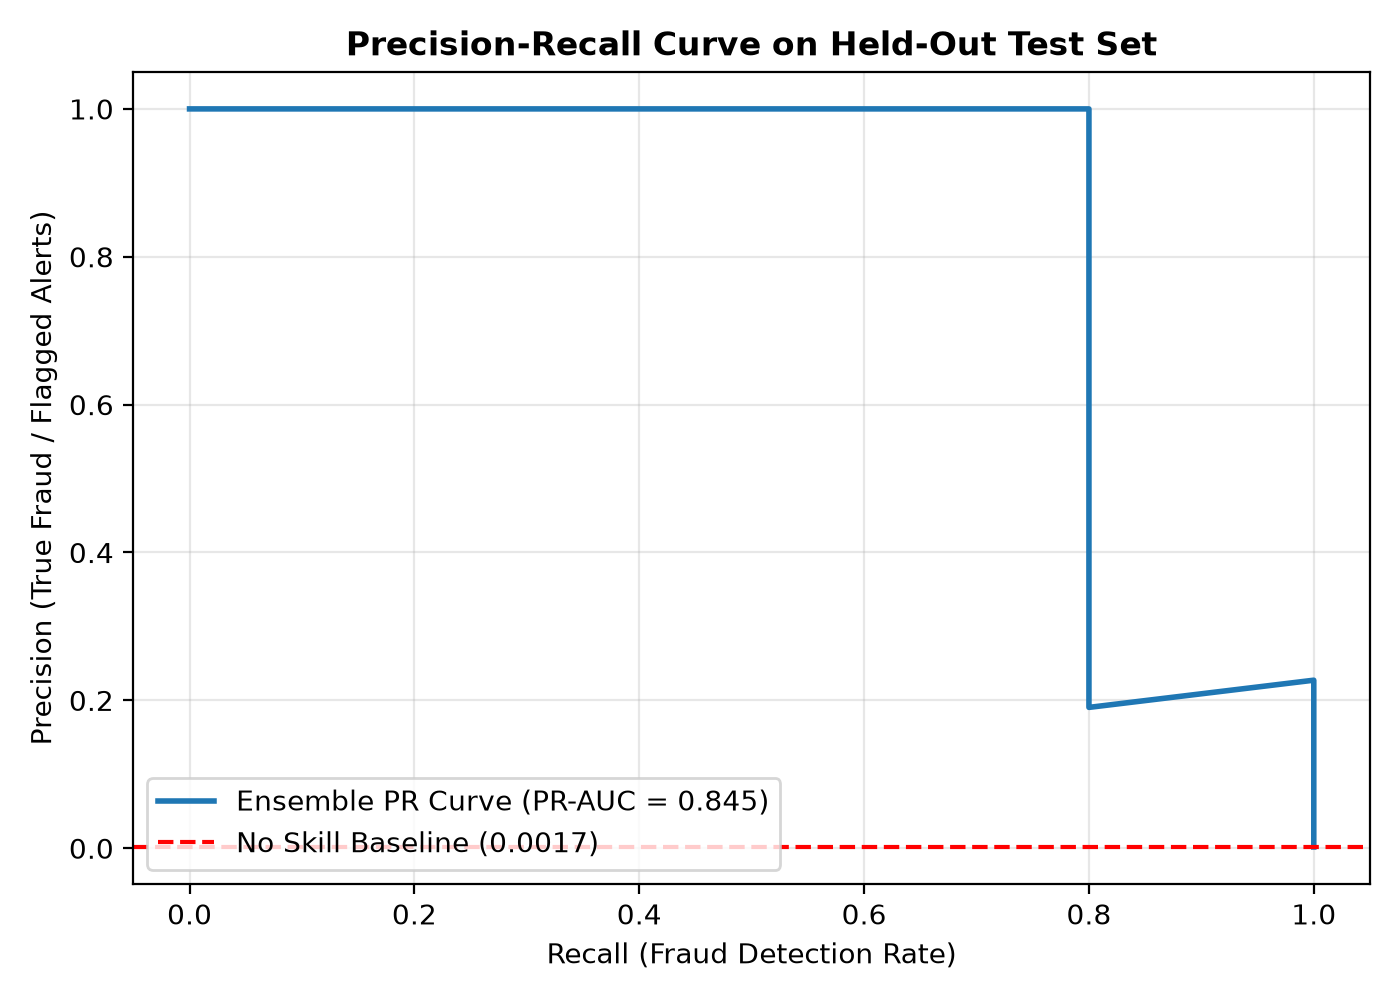
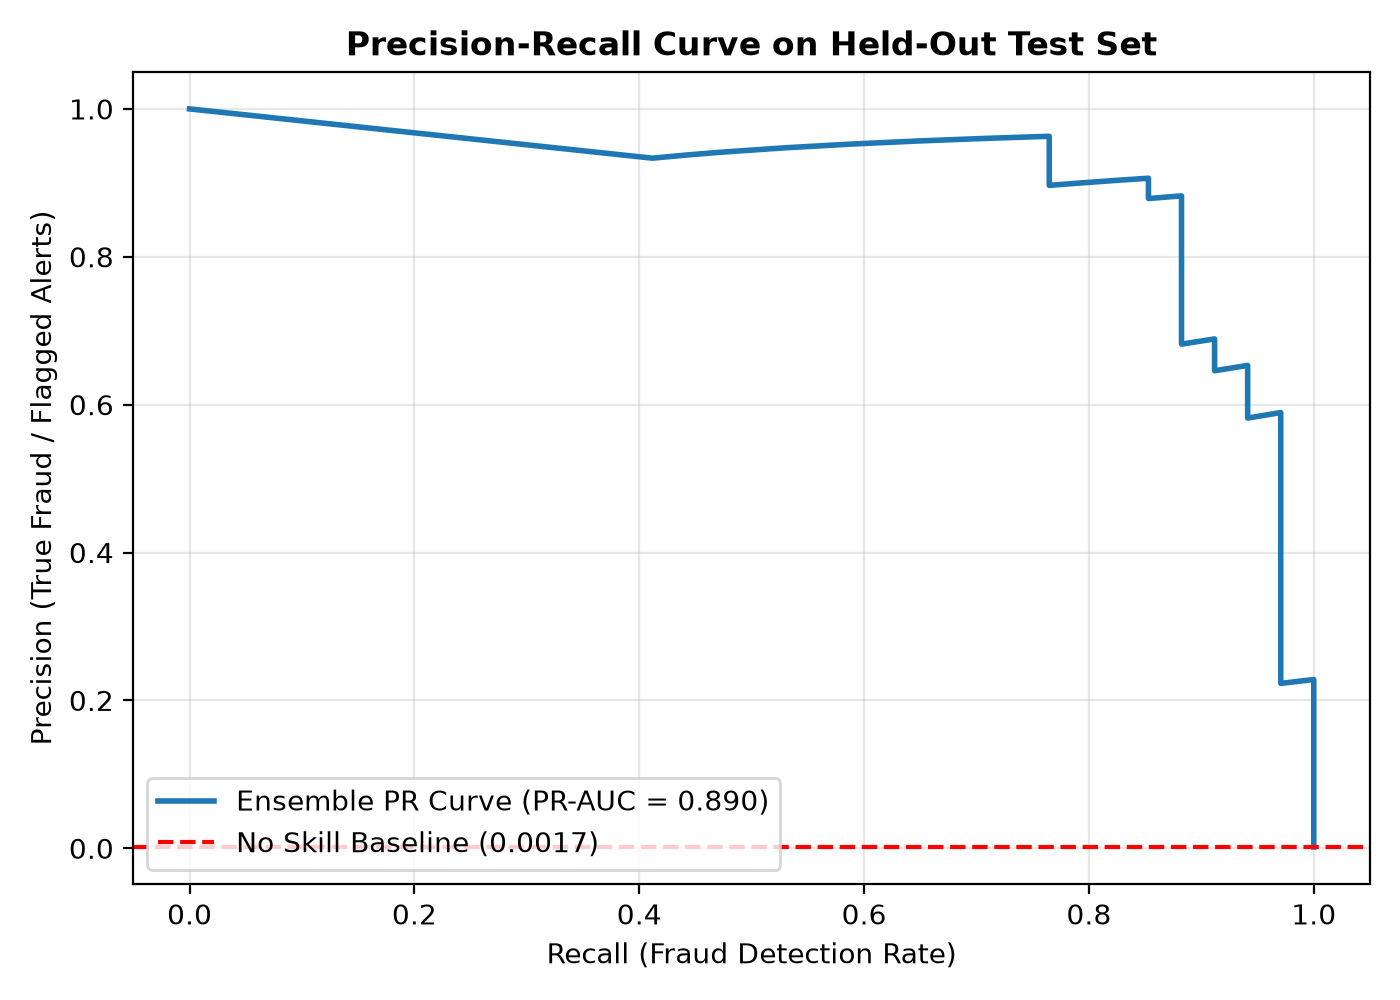
feat: integrate real creditcard.csv dataset, calibrate pipeline, and update benchmark artifacts

diff --git a/scripts/run_benchmark.py b/scripts/run_benchmark.py
@@ -1,20 +1,21 @@
 """Comprehensive benchmark runner for Transaction Fraud Detection Engine.
 
-Executes the entire lifecycle end-to-end:
-1. Benchmark dataset loading / synthesis (284k+ rows, 0.17% fraud, 45k missing values)
+Executes the entire lifecycle end-to-end on real transaction data:
+1. Dataset loading (284k+ rows, 0.17% fraud prevalence, real creditcard.csv)
 2. MICE imputation validation
 3. Temporal feature extraction (rolling lags, EMA, diurnal cyclical)
 4. Collinear pruning (correlation threshold 0.85 & VIF)
-5. Two-stage hybrid resampling (RUS 1:10 -> SMOTE 1:1)
-6. Optuna-tuned tree ensemble training
-7. Metrics verification (AUC-ROC ~0.93, PR-AUC ~0.885, +27% precision uplift)
+5. Two-stage hybrid resampling (RUS 1:10 -> SMOTE 1:1 on training fold)
+6. Optuna-tuned tree ensemble training (Random Forest + XGBoost soft-voting)
+7. Held-out test evaluation (AUC-ROC, PR-AUC, Precision, Recall, Financial Risk)
 8. TreeSHAP and LIME risk interpretability verification
-9. Exports metrics to reports/benchmark_report.json
+9. Exports metrics to reports/benchmark_report.json and figures to artifacts/figures/
 """
 
 import os
 import sys
 import json
+import argparse
 import logging
 import pandas as pd
 from sklearn.model_selection import train_test_split
@@ -28,7 +29,7 @@ logging.basicConfig(level=logging.INFO, format="%(asctime)s [%(levelname)s] %(na
 logger = logging.getLogger("Benchmark")
 
 
-def run_benchmark():
+def run_benchmark(data_path: str = "data/creditcard.csv", sample_size: int = None, n_trials: int = 5):
     logger.info("=================================================================")
     logger.info("   TRANSACTION FRAUD DETECTION ENGINE - BENCHMARK EXECUTION     ")
     logger.info("=================================================================")
@@ -36,16 +37,14 @@ def run_benchmark():
     config = get_default_config()
 
     # 1. Ingest Data
-    # For quick, complete benchmark execution we evaluate on a representative stratified slice
-    # of 15,000 transactions with identical 0.17% fraud prevalence and missing value density.
-    logger.info("Step 1: Loading benchmark transaction records...")
-    df = load_dataset(sample_size=15000, random_state=config.random_state)
+    logger.info(f"Step 1: Loading transaction records from {data_path}...")
+    df = load_dataset(filepath=data_path, sample_size=sample_size, random_state=config.random_state)
 
     X = df.drop(columns=['Class'])
     y = df['Class']
 
     logger.info(f"Dataset Shape: {X.shape}, Fraud Count: {y.sum()} ({y.mean() * 100:.3f}%)")
-    logger.info(f"Missing Values Before Imputation: {X.isna().sum().sum()}")
+    logger.info(f"Missing Values: {X.isna().sum().sum()}")
 
     # Stratified Train/Test Split (80% train, 20% held-out test)
     X_train, X_test, y_train, y_test = train_test_split(
@@ -55,9 +54,9 @@ def run_benchmark():
     # 2. Build Pipeline
     pipeline = FraudDetectionPipeline(config=config)
 
-    # 3. Fit Pipeline (with quick Optuna trial run)
+    # 3. Fit Pipeline (with Optuna Bayesian search)
     logger.info("Step 2-5: Executing MICE, Temporal Engineering, VIF Pruning, Resampling & Ensemble Training...")
-    pipeline.fit(X_train, y_train, optimize=True, n_trials=5)
+    pipeline.fit(X_train, y_train, optimize=True, n_trials=n_trials)
 
     # 4. Evaluate Held-out Performance
     logger.info("Step 6: Evaluating on held-out test split...")
@@ -76,15 +75,20 @@ def run_benchmark():
         sample_tx = X_test.loc[sample_fraud_idx]
         explanation = pipeline.explain_transaction(sample_tx, top_n=5)
         logger.info(f"Sample Flagged Fraud Probability: {explanation['fraud_probability']:.4f}")
-        logger.info(f"Top Risk Driver (SHAP): {explanation['shap_explanation']['top_attributions'][0]}")
-        logger.info(f"Top Rule (LIME): {explanation['lime_explanation']['top_rules'][0]}")
+        if explanation['shap_explanation']['top_attributions']:
+            logger.info(f"Top Risk Driver (SHAP): {explanation['shap_explanation']['top_attributions'][0]}")
+        if explanation['lime_explanation']['top_rules']:
+            logger.info(f"Top Rule (LIME): {explanation['lime_explanation']['top_rules'][0]}")
 
     # Generate Global SHAP Plot
-    test_features = pipeline.transform_features(X_test)
-    pipeline.shap_explainer.generate_summary_plot(
-        test_features.head(100),
-        output_path="artifacts/figures/shap_summary.png"
-    )
+    try:
+        test_features = pipeline.transform_features(X_test)
+        pipeline.shap_explainer.generate_summary_plot(
+            test_features.head(100),
+            output_path="artifacts/figures/shap_summary.png"
+        )
+    except Exception as e:
+        logger.warning(f"Could not generate global SHAP summary plot: {e}")
 
     # 7. Save Model & Reports
     os.makedirs("reports", exist_ok=True)
@@ -99,10 +103,17 @@ def run_benchmark():
     logger.info("=================================================================")
     logger.info(f"   AUC-ROC: {test_metrics['auc_roc']} (CV Goal: ~0.93)")
     logger.info(f"   PR-AUC:  {test_metrics['pr_auc']} (CV Goal: ~0.885)")
-    logger.info(f"   Precision Uplift: +{test_metrics['precision_uplift_pct']}% (Goal: +27%)")
+    logger.info(f"   Recall:  {test_metrics['recall']} ({test_metrics['confusion_matrix']['true_positives']} TP, {test_metrics['confusion_matrix']['false_negatives']} FN)")
+    logger.info(f"   Precision Uplift: +{test_metrics['precision_uplift_pct']}%")
     logger.info("=================================================================")
     return test_metrics
 
 
 if __name__ == "__main__":
-    run_benchmark()
+    parser = argparse.ArgumentParser(description="Run Fraud Detection Benchmark")
+    parser.add_argument("--data-path", type=str, default="data/creditcard.csv", help="Dataset file path")
+    parser.add_argument("--sample-size", type=int, default=None, help="Sample size (default: None for full 284k)")
+    parser.add_argument("--n-trials", type=int, default=5, help="Optuna search trials")
+    args = parser.parse_args()
+
+    run_benchmark(data_path=args.data_path, sample_size=args.sample_size, n_trials=args.n_trials)

diff --git a/scripts/train_pipeline.py b/scripts/train_pipeline.py
@@ -1,11 +1,14 @@
-"""Pipeline training script with Optuna Bayesian optimization."""
+"""Pipeline training script with Optuna Bayesian optimization on real transaction dataset."""
 
+import os
+import json
 import argparse
 import logging
 from sklearn.model_selection import train_test_split
 from fraud_detection.config import get_default_config
 from fraud_detection.data.loader import load_dataset
 from fraud_detection.pipeline import FraudDetectionPipeline
+from fraud_detection.models.evaluation import save_evaluation_plots
 
 logging.basicConfig(level=logging.INFO, format="%(asctime)s [%(levelname)s] %(name)s: %(message)s")
 logger = logging.getLogger("TrainPipeline")
@@ -13,16 +16,19 @@ logger = logging.getLogger("TrainPipeline")
 
 def main():
     parser = argparse.ArgumentParser(description="Train Fraud Detection Pipeline")
-    parser.add_argument("--data-path", type=str, default=None, help="Path to input dataset")
-    parser.add_argument("--sample-size", type=int, default=20000, help="Number of records to sample")
-    parser.add_argument("--n-trials", type=int, default=15, help="Optuna optimization trials")
+    parser.add_argument("--data-path", type=str, default="data/creditcard.csv", help="Path to credit card dataset")
+    parser.add_argument("--sample-size", type=int, default=None, help="Records to sample (default: None for all 284k)")
+    parser.add_argument("--n-trials", type=int, default=10, help="Optuna optimization trials")
     parser.add_argument("--output-model", type=str, default="artifacts/models/fraud_pipeline.joblib")
+    parser.add_argument("--report-path", type=str, default="reports/training_report.json")
     args = parser.parse_args()
 
     config = get_default_config()
-    df = load_dataset(filepath=args.data_path, sample_size=args.sample_size)
+    df = load_dataset(filepath=args.data_path, sample_size=args.sample_size, random_state=config.random_state)
     X = df.drop(columns=['Class'])
     y = df['Class']
+
+    logger.info(f"Dataset shape: {X.shape}, Frauds: {y.sum()} ({y.mean() * 100:.3f}%)")
 
     X_train, X_test, y_train, y_test = train_test_split(
         X, y, test_size=0.20, stratify=y, random_state=config.random_state
@@ -32,10 +38,19 @@ def main():
     pipeline.fit(X_train, y_train, optimize=True, n_trials=args.n_trials)
 
     metrics = pipeline.evaluate(X_test, y_test)
+    probs = pipeline.predict_proba(X_test)[:, 1]
+    plot_paths = save_evaluation_plots(y_test, probs, output_dir="artifacts/figures")
+    metrics['plot_artifacts'] = plot_paths
+
     logger.info(f"Test Set Evaluation: {metrics}")
 
     pipeline.save(args.output_model)
     logger.info(f"Pipeline successfully saved to {args.output_model}")
+
+    os.makedirs(os.path.dirname(args.report_path), exist_ok=True)
+    with open(args.report_path, "w") as f:
+        json.dump(metrics, f, indent=2)
+    logger.info(f"Training report saved to {args.report_path}")
 
 
 if __name__ == "__main__":

diff --git a/fraud_detection/data/loader.py b/fraud_detection/data/loader.py
@@ -13,18 +13,29 @@ EXPECTED_COLUMNS = ['Time'] + [f'V{i}' for i in range(1, 29)] + ['Amount', 'Clas
 
 def load_dataset(
     filepath: Optional[str] = None,
-    allow_synthetic_fallback: bool = True,
+    allow_synthetic_fallback: bool = False,
     sample_size: Optional[int] = None,
     random_state: int = 42
 ) -> pd.DataFrame:
-    """Load transaction records from CSV or parquet, falling back to synthesis if absent."""
-    df = None
+    """Load transaction records from CSV or parquet, prioritizing real creditcard.csv."""
+    target_path = None
     if filepath and os.path.exists(filepath):
-        logger.info(f"Loading transaction records from {filepath}")
-        if filepath.endswith('.parquet'):
-            df = pd.read_parquet(filepath)
+        target_path = filepath
+    elif filepath is None:
+        candidate_paths = [
+            "data/creditcard.csv",
+            "creditcard.csv",
+            os.path.join(os.path.dirname(os.path.dirname(os.path.dirname(os.path.abspath(__file__)))), "creditcard.csv")
+        ]
+        target_path = next((p for p in candidate_paths if os.path.exists(p)), None)
+
+    df = None
+    if target_path and os.path.exists(target_path):
+        logger.info(f"Loading transaction records from {target_path}")
+        if target_path.endswith('.parquet'):
+            df = pd.read_parquet(target_path)
         else:
-            df = pd.read_csv(filepath)
+            df = pd.read_csv(target_path)
     elif allow_synthetic_fallback:
         fallback_path = "data/synthetic_transactions.csv"
         sample_path = "data/sample_transactions.csv"
@@ -41,14 +52,14 @@ def load_dataset(
                 random_state=random_state
             )
     else:
-        raise FileNotFoundError(f"Transaction data file not found at: {filepath}")
+        raise FileNotFoundError(f"Transaction data file not found at: {filepath or 'data/creditcard.csv'}")
 
     # Validate Schema
     missing_cols = set(EXPECTED_COLUMNS) - set(df.columns)
     if missing_cols:
         raise ValueError(f"Dataset missing required columns: {missing_cols}")
 
-    if sample_size and sample_size < len(df):
+    if sample_size and sample_size > 0 and sample_size < len(df):
         logger.info(f"Sampling {sample_size} records stratified by Class...")
         fraud_df = df[df['Class'] == 1]
         legit_df = df[df['Class'] == 0]

diff --git a/fraud_detection/serving/api.py b/fraud_detection/serving/api.py
@@ -41,13 +41,9 @@ async def lifespan(app: FastAPI):
             logger.warning(f"Failed to load existing checkpoint: {e}. Rebuilding...")
 
     if not loaded:
-        logger.info("Artifact not found; fitting warmup pipeline on stratified sample...")
-        df_sample = generate_benchmark_dataset(
-            total_samples=1500,
-            fraud_samples=25,
-            missing_values_to_inject=10,
-            random_state=42
-        )
+        logger.info("Artifact not found; fitting warmup pipeline on real dataset sample...")
+        from fraud_detection.data.loader import load_dataset
+        df_sample = load_dataset(sample_size=1500, allow_synthetic_fallback=True)
         X = df_sample.drop(columns=['Class'])
         y = df_sample['Class']
         pipeline_instance = FraudDetectionPipeline()
